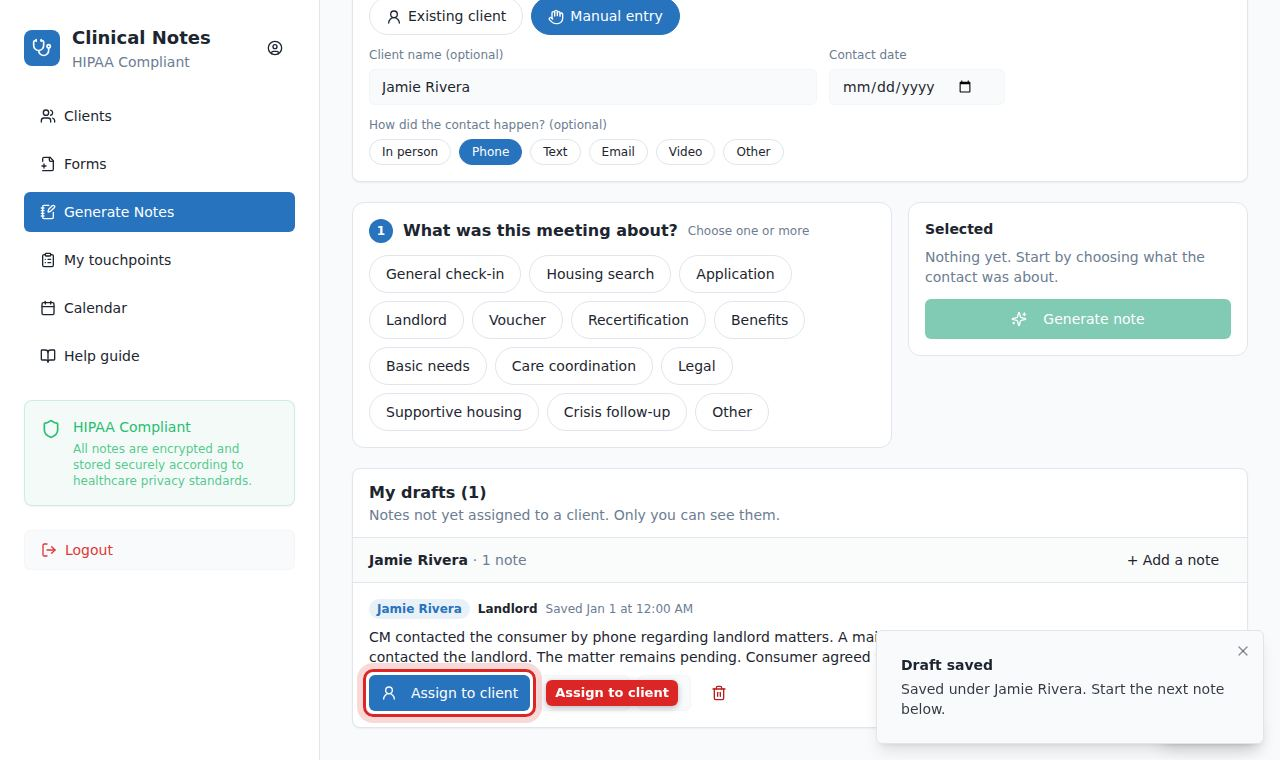
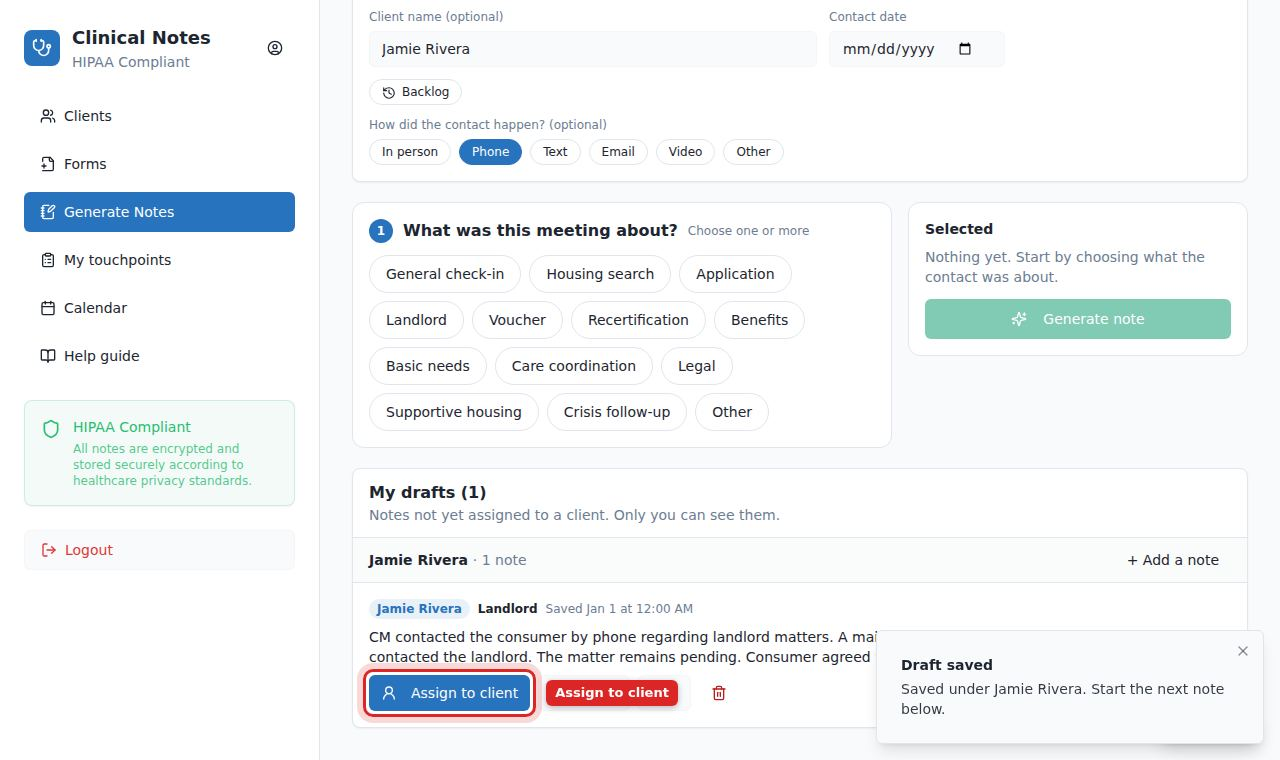
Generate Notes: backlog notes, one per 30-day cycle
Under Manual entry, Backlog takes the 150-day start date (and the
180-day extension when ticked) and lists one row per 30-day cycle:
five, or six with the extension. Nothing is created ahead of time;
Add note on a cycle dates the note the cycle's first day and saves it
as a draft tagged with its cycle, so the list shows which cycles have a
draft or an assigned note.

Database: clinical_notes gains backlog_start, backlog_cycle and
backlog_extension (migration 20261002090000, applied).
Help guide: new Write backlog notes guide with screenshots.

Claude-Session: https://claude.ai/code/session_012TZTkqWFZbcufo1uEC7hhK

diff --git a/src/pages/ClinicalNotes.tsx b/src/pages/ClinicalNotes.tsx
@@ -6,13 +6,19 @@
 // assign it to a client later, when it becomes that client's touchpoint note.
 // A typed name labels drafts (a backlog for someone not in the app, several
 // notes for one person); it is never written into the note itself.
+//
+// Backlog (under Manual entry) lists one 30-day cycle per row from the 150-day
+// start date, plus the 180-day extension when ticked. Nothing is created ahead
+// of time: a note exists only once someone adds one for a cycle, dated the
+// cycle's first day.
 import React, { useCallback, useEffect, useState } from 'react';
 import { Navigate } from 'react-router-dom';
 import { format } from 'date-fns';
-import { ClipboardCopy, Hand, Trash2, UserRound } from 'lucide-react';
+import { Check, ClipboardCopy, Hand, History, Trash2, UserRound } from 'lucide-react';
 import { Button } from '@/components/ui/button';
 import { Input } from '@/components/ui/input';
 import { Card } from '@/components/ui/card';
+import { Checkbox } from '@/components/ui/checkbox';
 import { PageShell } from '@/components/PageShell';
 import { ClientPicker } from '@/components/ClientPicker';
 import { AddTouchpointDialog, type TouchpointContext } from '@/components/AddTouchpointDialog';
@@ -25,7 +31,8 @@ import { supabase } from '@/integrations/supabase/client';
 import { CONTACT_METHOD_OPTIONS } from '@/lib/compliance';
 import { isCaseClosed, isSetupComplete } from '@/lib/workflow';
 import { topicById } from '@/lib/clinicalNotes/config';
-import { deleteDraft, loadMyDrafts, saveDraft, type DraftNote } from '@/lib/clinicalNotes/save';
+import { deleteDraft, loadBacklogNotes, loadMyDrafts, saveDraft, type DraftNote } from '@/lib/clinicalNotes/save';
+import { backlogCycles } from '@/lib/clinicalNotes/backlog';
 import { cn } from '@/lib/utils';
 
 interface Pickable {
@@ -83,12 +90,56 @@ export default function ClinicalNotes() {
   const [drafts, setDrafts] = useState<DraftNote[]>([]);
   const [touchpoint, setTouchpoint] = useState<{ context: TouchpointContext; draft?: DraftNote } | null>(null);
   const [assigning, setAssigning] = useState<DraftNote | null>(null);
+  // Backlog: the 150-day start, the extension, the cycle being written, and which cycles have notes.
+  const [backlogOn, setBacklogOn] = useState(false);
+  const [backlogStart, setBacklogStart] = useState('');
+  const [backlogExt, setBacklogExt] = useState(false);
+  const [backlogCycle, setBacklogCycle] = useState<number | null>(null);
+  const [backlogDone, setBacklogDone] = useState<Record<number, { id: string; status: 'draft' | 'saved' }>>({});
+  const cycles = backlogOn ? backlogCycles(backlogStart, backlogExt) : [];
   const [assignTo, setAssignTo] = useState<string | null>(null);
 
   const refresh = useCallback(() => {
     if (user) void loadMyDrafts(user.id).then(setDrafts).catch(() => setDrafts([]));
   }, [user]);
   useEffect(refresh, [refresh]);
+
+  const loadBacklog = useCallback(() => {
+    const name = clientLabel.trim();
+    if (!user || !backlogOn || !backlogStart || !name) {
+      setBacklogDone({});
+      return;
+    }
+    void loadBacklogNotes(user.id, name, backlogStart).then(setBacklogDone).catch(() => setBacklogDone({}));
+  }, [user, backlogOn, backlogStart, clientLabel]);
+  useEffect(() => {
+    const t = setTimeout(loadBacklog, 300);
+    return () => clearTimeout(t);
+  }, [loadBacklog]);
+
+  const startCycle = (n: number) => {
+    const c = cycles.find((x) => x.n === n);
+    if (!c) return;
+    setBacklogCycle(n);
+    setContactDate(c.start);
+    setEditingDraft(null);
+    setComposerKey((k) => k + 1);
+    document.getElementById('note-composer')?.scrollIntoView({ behavior: 'smooth' });
+  };
+
+  const editDraft = (d: DraftNote) => {
+    setMode('draft');
+    setMethod(d.contact_method);
+    setClientLabel(d.client_label ?? '');
+    setContactDate(d.contact_date ?? '');
+    setBacklogOn(!!d.backlog_start);
+    setBacklogStart(d.backlog_start ?? '');
+    setBacklogExt(d.backlog_extension);
+    setBacklogCycle(d.backlog_cycle);
+    setEditingDraft(d);
+    setComposerKey((k) => k + 1);
+    window.scrollTo({ top: 0, behavior: 'smooth' });
+  };
 
   // Drafts for the same name together, newest first within each; unnamed last.
   const grouped = [...drafts].sort(
@@ -100,6 +151,12 @@ export default function ClinicalNotes() {
     setMode('draft');
     setClientLabel(label);
     setContactDate('');
+    // A name with backlog notes opens its cycle list again.
+    const prior = drafts.find((x) => x.client_label === label && x.backlog_start);
+    setBacklogOn(!!prior);
+    setBacklogStart(prior?.backlog_start ?? '');
+    setBacklogExt(prior?.backlog_extension ?? false);
+    setBacklogCycle(null);
     setEditingDraft(null);
     setComposerKey((k) => k + 1);
     window.scrollTo({ top: 0, behavior: 'smooth' });
@@ -119,13 +176,16 @@ export default function ClinicalNotes() {
 
   const saveAsDraft = async (c: ComposedNote) => {
     try {
-      await saveDraft(c, method, editingDraft?.id, clientLabel, contactDate);
+      const backlog = backlogOn && backlogStart && backlogCycle ? { start: backlogStart, cycle: backlogCycle, extension: backlogExt } : null;
+      await saveDraft(c, { contactMethod: method, id: editingDraft?.id, clientLabel, contactDate, backlog });
       // The name stays filled in, so several notes for one person go quickly.
       toast({ title: editingDraft ? 'Draft updated' : 'Draft saved', description: clientLabel.trim() ? `Saved under ${clientLabel.trim()}. Start the next note below.` : 'Assign it to a client from My drafts when you are ready.' });
       setEditingDraft(null);
       setContactDate('');
+      setBacklogCycle(null);
       setComposerKey((k) => k + 1);
       refresh();
+      loadBacklog();
     } catch (e) {
       toast({ title: 'Could not save the draft', description: e instanceof Error ? e.message : String(e), variant: 'destructive' });
     }
@@ -175,6 +235,77 @@ export default function ClinicalNotes() {
           )}
 
           {mode === 'draft' && (
+            <div className="space-y-3">
+              <Chip
+                size="sm"
+                selected={backlogOn}
+                onClick={() => {
+                  setBacklogOn((on) => !on);
+                  setBacklogCycle(null);
+                }}
+              >
+                <History className="mr-1.5 inline h-3.5 w-3.5" />
+                Backlog
+              </Chip>
+              {backlogOn && (
+                <div className="space-y-3 rounded-lg border bg-muted/20 p-3">
+                  <div className="flex flex-wrap items-end gap-4">
+                    <div className="space-y-1.5">
+                      <p className="text-xs text-muted-foreground">150-day start date</p>
+                      <Input aria-label="150-day start date" type="date" value={backlogStart} onChange={(e) => { setBacklogStart(e.target.value); setBacklogCycle(null); }} className="h-9 w-44" />
+                    </div>
+                    <label className="flex h-9 items-center gap-2 text-sm">
+                      <Checkbox checked={backlogExt} onCheckedChange={(c) => setBacklogExt(c === true)} />
+                      Include 180-day extension
+                    </label>
+                  </div>
+                  {cycles.length > 0 && !clientLabel.trim() && <p className="text-xs text-amber-800">Enter the client name to save backlog notes.</p>}
+                  {cycles.length > 0 && (
+                    <ul className="divide-y rounded-md border bg-white">
+                      {cycles.map((c) => {
+                        const done = backlogDone[c.n];
+                        const draft = done?.status === 'draft' ? drafts.find((d) => d.id === done.id) : undefined;
+                        const writing = backlogCycle === c.n;
+                        return (
+                          <li key={c.n} className={cn('flex flex-wrap items-center gap-3 px-3 py-2 text-sm', writing && 'bg-primary/5')}>
+                            <span className="w-16 font-semibold">Cycle {c.n}</span>
+                            <span className="text-muted-foreground">
+                              {format(new Date(`${c.start}T12:00:00`), 'MMM d')} – {format(new Date(`${c.end}T12:00:00`), 'MMM d, yyyy')}
+                            </span>
+                            <span className="ml-auto flex items-center gap-2">
+                              {writing ? (
+                                <span className="text-xs font-semibold text-primary">Writing</span>
+                              ) : done?.status === 'saved' ? (
+                                <span className="inline-flex items-center gap-1 text-xs font-semibold text-emerald-700">
+                                  <Check className="h-3.5 w-3.5" />
+                                  Assigned
+                                </span>
+                              ) : done ? (
+                                <>
+                                  <span className="text-xs text-muted-foreground">Draft saved</span>
+                                  {draft && (
+                                    <Button size="sm" variant="outline" className="h-7" onClick={() => editDraft(draft)}>
+                                      Edit
+                                    </Button>
+                                  )}
+                                </>
+                              ) : (
+                                <Button size="sm" className="h-7" disabled={!clientLabel.trim()} onClick={() => startCycle(c.n)}>
+                                  Add note
+                                </Button>
+                              )}
+                            </span>
+                          </li>
+                        );
+                      })}
+                    </ul>
+                  )}
+                </div>
+              )}
+            </div>
+          )}
+
+          {mode === 'draft' && (
             <div className="space-y-1.5">
               <p className="text-xs text-muted-foreground">How did the contact happen? (optional)</p>
               <div className="flex flex-wrap gap-2">
@@ -189,11 +320,16 @@ export default function ClinicalNotes() {
         </Card>
 
         {mode === 'draft' && (
-          <div className="space-y-2">
+          <div id="note-composer" className="scroll-mt-4 space-y-2">
+            {backlogCycle && !editingDraft && (
+              <p className="rounded-md bg-sky-50 px-3 py-2 text-sm text-sky-900">
+                Note for cycle {backlogCycle}, dated {contactDate ? format(new Date(`${contactDate}T12:00:00`), 'MMM d, yyyy') : 'the cycle start'}.
+              </p>
+            )}
             {editingDraft && (
               <p className="rounded-md bg-sky-50 px-3 py-2 text-sm text-sky-900">
                 Editing a draft from {format(new Date(editingDraft.updated_at), 'MMM d')}.{' '}
-                <button className="underline" onClick={() => { setEditingDraft(null); setComposerKey((k) => k + 1); }}>
+                <button className="underline" onClick={() => { setEditingDraft(null); setBacklogCycle(null); setComposerKey((k) => k + 1); }}>
                   Start a new note instead
                 </button>
               </p>
@@ -244,6 +380,7 @@ export default function ClinicalNotes() {
                   <div className="flex flex-wrap items-center gap-2 text-xs text-muted-foreground">
                     {d.client_label && <span className="rounded-full bg-primary/10 px-2 py-0.5 font-semibold text-primary">{d.client_label}</span>}
                     <span className="font-semibold text-foreground">{topicById(d.primary_topic ?? '')?.label ?? 'Note'}</span>
+                    {d.backlog_cycle && <span className="rounded-full bg-muted px-2 py-0.5 font-medium">Cycle {d.backlog_cycle}</span>}
                     {d.contact_date && <span>Contact {format(new Date(`${d.contact_date}T12:00:00`), 'MMM d, yyyy')}</span>}
                     <span>Saved {format(new Date(d.updated_at), "MMM d 'at' h:mm a")}</span>
                   </div>
@@ -269,15 +406,7 @@ export default function ClinicalNotes() {
                     <Button
                       size="sm"
                       variant="outline"
-                      onClick={() => {
-                        setMode('draft');
-                        setMethod(d.contact_method);
-                        setClientLabel(d.client_label ?? '');
-                        setContactDate(d.contact_date ?? '');
-                        setEditingDraft(d);
-                        setComposerKey((k) => k + 1);
-                        window.scrollTo({ top: 0, behavior: 'smooth' });
-                      }}
+                      onClick={() => editDraft(d)}
                     >
                       Edit
                     </Button>

diff --git a/src/lib/clinicalNotes/save.ts b/src/lib/clinicalNotes/save.ts
@@ -64,18 +64,39 @@ export interface DraftNote {
   primary_topic: string | null;
   /** Manual entry: the name typed to organize drafts. Not in the note text. */
   client_label: string | null;
+  /** Backlog notes: the 150-day start, which cycle, and whether the extension is included. */
+  backlog_start: string | null;
+  backlog_cycle: number | null;
+  backlog_extension: boolean;
   composed: ComposedNote;
 }
 
+export interface BacklogRef {
+  start: string;
+  cycle: number;
+  extension: boolean;
+}
+
+export interface DraftOptions {
+  contactMethod: string | null;
+  /** Update this draft instead of adding one. */
+  id?: string;
+  clientLabel?: string | null;
+  contactDate?: string | null;
+  backlog?: BacklogRef | null;
+}
+
 /** Save a draft that belongs to no client yet. */
-export async function saveDraft(
-  c: ComposedNote,
-  contactMethod: string | null,
-  id?: string,
-  clientLabel?: string | null,
-  contactDate?: string | null,
-): Promise<string> {
-  const row = { ...noteRow(c, { contactMethod, contactDate: contactDate || null }), status: 'draft', client_label: clientLabel?.trim() || null };
+export async function saveDraft(c: ComposedNote, o: DraftOptions): Promise<string> {
+  const { id, backlog } = o;
+  const row = {
+    ...noteRow(c, { contactMethod: o.contactMethod, contactDate: o.contactDate || null }),
+    status: 'draft',
+    client_label: o.clientLabel?.trim() || null,
+    backlog_start: backlog?.start ?? null,
+    backlog_cycle: backlog?.cycle ?? null,
+    backlog_extension: backlog?.extension ?? false,
+  };
   if (id) {
     const { error } = await table().update(row).eq('id', id);
     if (error) throw new Error(error.message);
@@ -89,7 +110,7 @@ export async function saveDraft(
 
 export async function loadMyDrafts(userId: string): Promise<DraftNote[]> {
   const { data, error } = await table()
-    .select('id, created_at, updated_at, contact_method, contact_date, final_narrative, generated_narrative, generator, reviewed_at, primary_topic, client_label, selections')
+    .select('id, created_at, updated_at, contact_method, contact_date, final_narrative, generated_narrative, generator, reviewed_at, primary_topic, client_label, backlog_start, backlog_cycle, backlog_extension, selections')
     .eq('status', 'draft')
     .eq('created_by', userId)
     .order('updated_at', { ascending: false });
@@ -104,6 +125,9 @@ export async function loadMyDrafts(userId: string): Promise<DraftNote[]> {
     final_narrative: r.final_narrative ?? '',
     primary_topic: r.primary_topic,
     client_label: r.client_label ?? null,
+    backlog_start: r.backlog_start ?? null,
+    backlog_cycle: r.backlog_cycle ?? null,
+    backlog_extension: !!r.backlog_extension,
     composed: {
       draft: r.selections,
       generated: r.generated_narrative ?? '',
@@ -112,6 +136,23 @@ export async function loadMyDrafts(userId: string): Promise<DraftNote[]> {
       reviewedAt: r.reviewed_at ?? new Date().toISOString(),
     },
   }));
+}
+
+/** For one backlog (name and start date), which cycles have a note, and whether it is assigned yet. */
+export async function loadBacklogNotes(userId: string, clientLabel: string, start: string): Promise<Record<number, { id: string; status: 'draft' | 'saved' }>> {
+  const { data, error } = await table()
+    .select('id, backlog_cycle, status')
+    .eq('created_by', userId)
+    .eq('backlog_start', start)
+    .eq('client_label', clientLabel.trim());
+  if (error) throw new Error(error.message);
+  const out: Record<number, { id: string; status: 'draft' | 'saved' }> = {};
+  // eslint-disable-next-line @typescript-eslint/no-explicit-any
+  for (const r of (data ?? []) as any[]) {
+    // An assigned note counts over a draft for the same cycle.
+    if (r.backlog_cycle && out[r.backlog_cycle]?.status !== 'saved') out[r.backlog_cycle] = { id: r.id, status: r.status };
+  }
+  return out;
 }
 
 export async function deleteDraft(id: string): Promise<void> {

diff --git a/src/lib/clinicalNotes/backlog.ts b/src/lib/clinicalNotes/backlog.ts
@@ -1,0 +1,32 @@
+// Backlog: one note per 30-day cycle of an authorization, written after the fact.
+//
+// Cycles roll every 30 days from the 150-day start date: five cycles for the
+// 150 days, a sixth when the 180-day extension is included. A cycle's note is
+// dated the cycle's first day.
+
+export const CYCLE_DAYS = 30;
+
+export interface BacklogCycle {
+  /** 1-based. */
+  n: number;
+  /** yyyy-mm-dd, the first day and the note date. */
+  start: string;
+  /** yyyy-mm-dd, the last day. */
+  end: string;
+}
+
+const addDays = (iso: string, days: number) => {
+  const d = new Date(`${iso}T12:00:00Z`);
+  d.setUTCDate(d.getUTCDate() + days);
+  return d.toISOString().slice(0, 10);
+};
+
+export function backlogCycles(start: string, withExtension: boolean): BacklogCycle[] {
+  if (!/^\d{4}-\d{2}-\d{2}$/.test(start)) return [];
+  const count = withExtension ? 6 : 5;
+  return Array.from({ length: count }, (_, i) => ({
+    n: i + 1,
+    start: addDays(start, i * CYCLE_DAYS),
+    end: addDays(start, (i + 1) * CYCLE_DAYS - 1),
+  }));
+}

diff --git a/src/lib/helpGuides.ts b/src/lib/helpGuides.ts
@@ -210,6 +210,15 @@ export const GUIDES: Guide[] = [
     ],
   },
   {
+    id: 'backlog-notes', section: 'Touchpoints', title: 'Write backlog notes', audience: 'everyone', minutes: 3,
+    steps: [
+      s('Open Manual entry', 'Select Generate Notes in the left panel, select Manual entry, then type the client name.'),
+      s('Select Backlog', 'Select Backlog and enter the 150-day start date. Tick Include 180-day extension if it applies.'),
+      s('Find the cycle', 'One row is listed for each 30-day cycle: five for 150 days, six with the extension. Each row shows whether a note is saved or assigned.'),
+      s('Add the note', 'Select Add note beside a cycle. The contact date is set to the first day of the cycle. Build the note, then select Save draft. Assign it to the client from My drafts.'),
+    ],
+  },
+  {
     id: 'reminders', section: 'Touchpoints', title: 'Respond to a reminder', audience: 'everyone', minutes: 1,
     steps: [
       s('Open Clients', 'Reminders from your manager appear when you open Clients.'),
